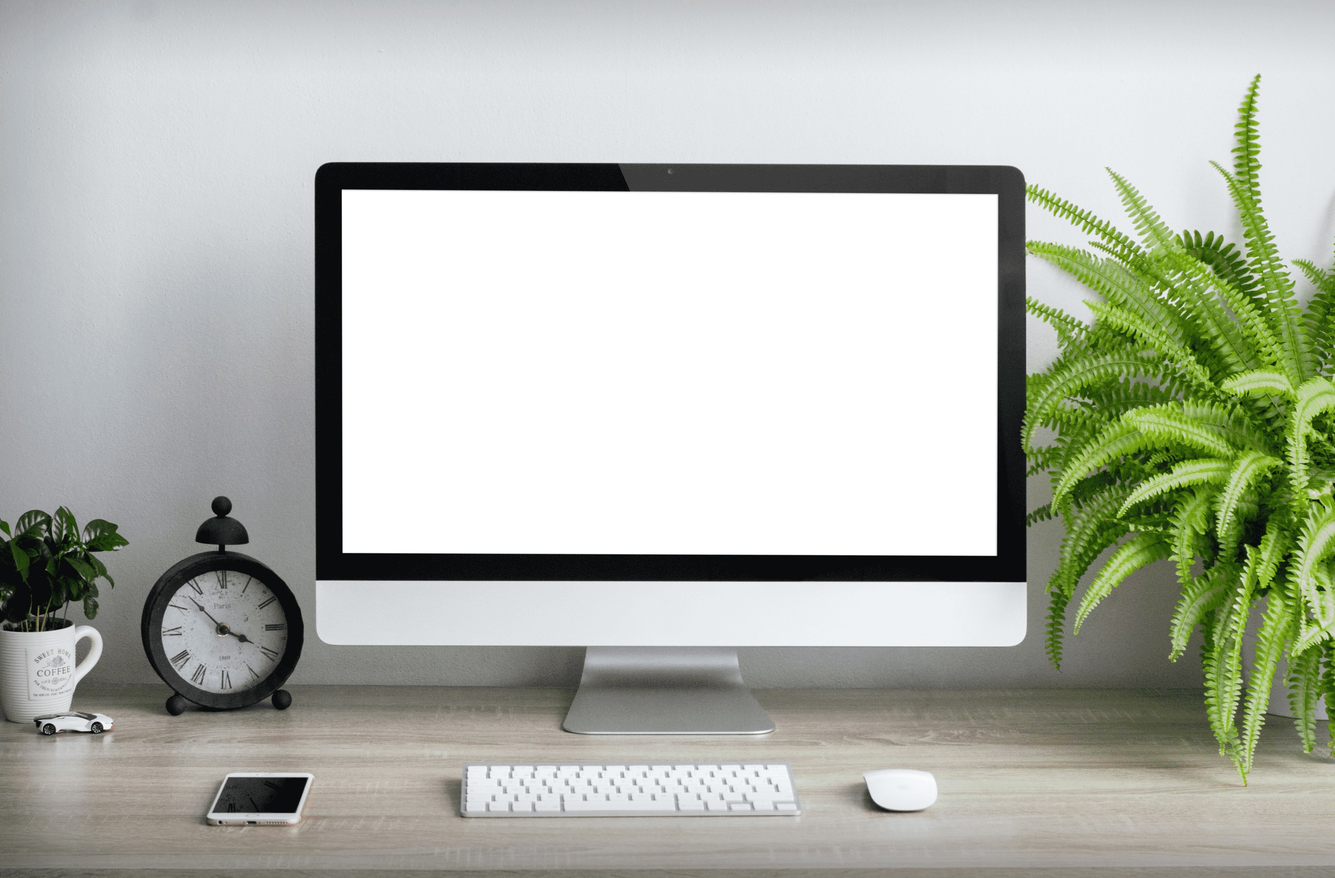
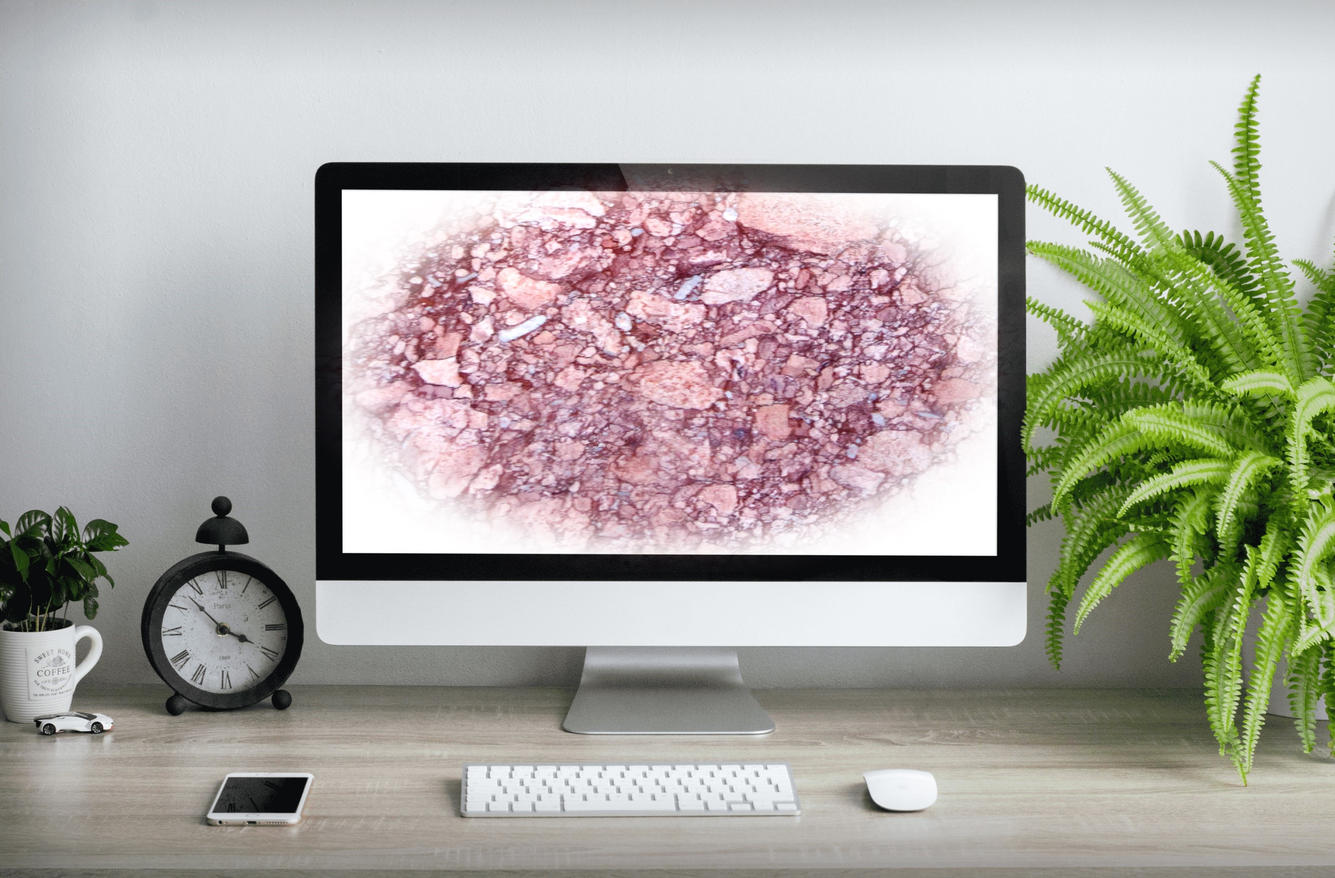
home

Changed region(s): [[0.2474, 0.187, 0.7731, 0.6545]]

diff --git a/Website/views/home.view.php b/Website/views/home.view.php
@@ -76,7 +76,7 @@ include "includes/head.view.php"
 
 
 <div class="card bg-dark text-white">
-  <img class="card-img" src="../asset/img/Inkedapple_imac_free_mockup_LI.jpg" alt="Card image">
+  <img class="card-img" src="../asset/img/apple_imac_free_mockup.png" alt="Card image">
 
       <div class="card-img-overlay" id="wrapper2">
         <div class="inner-wrapper">
